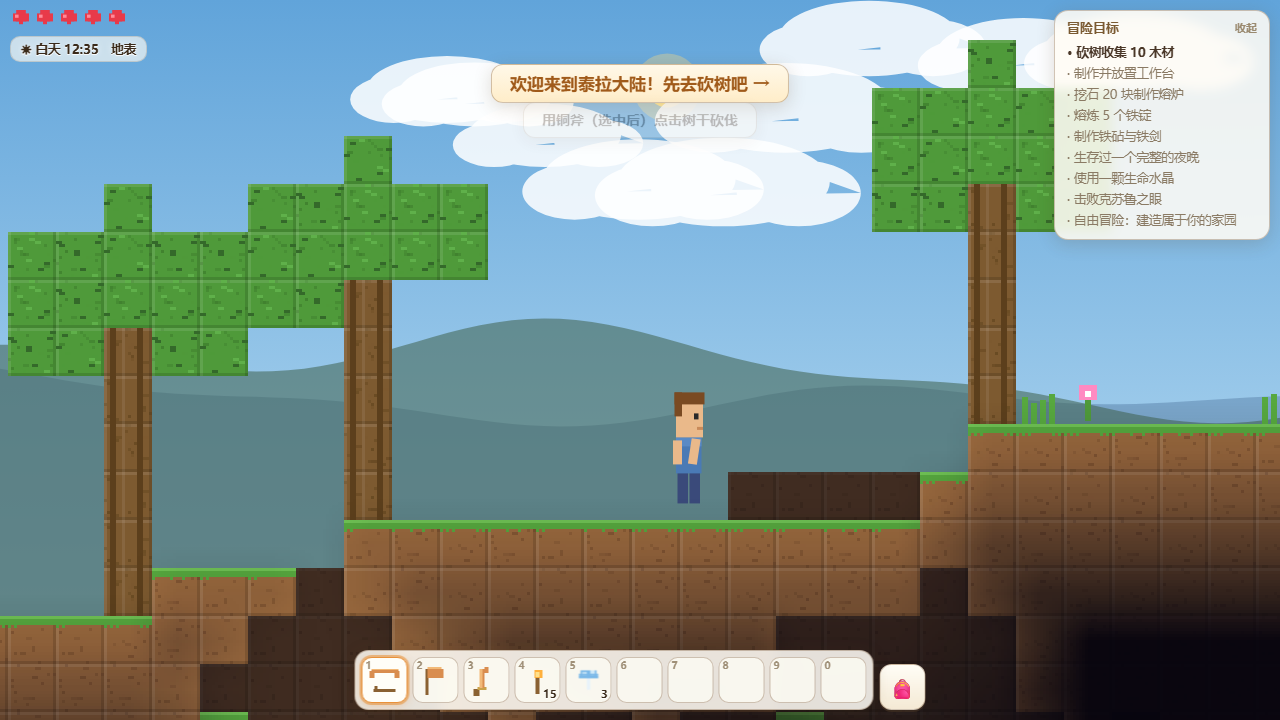
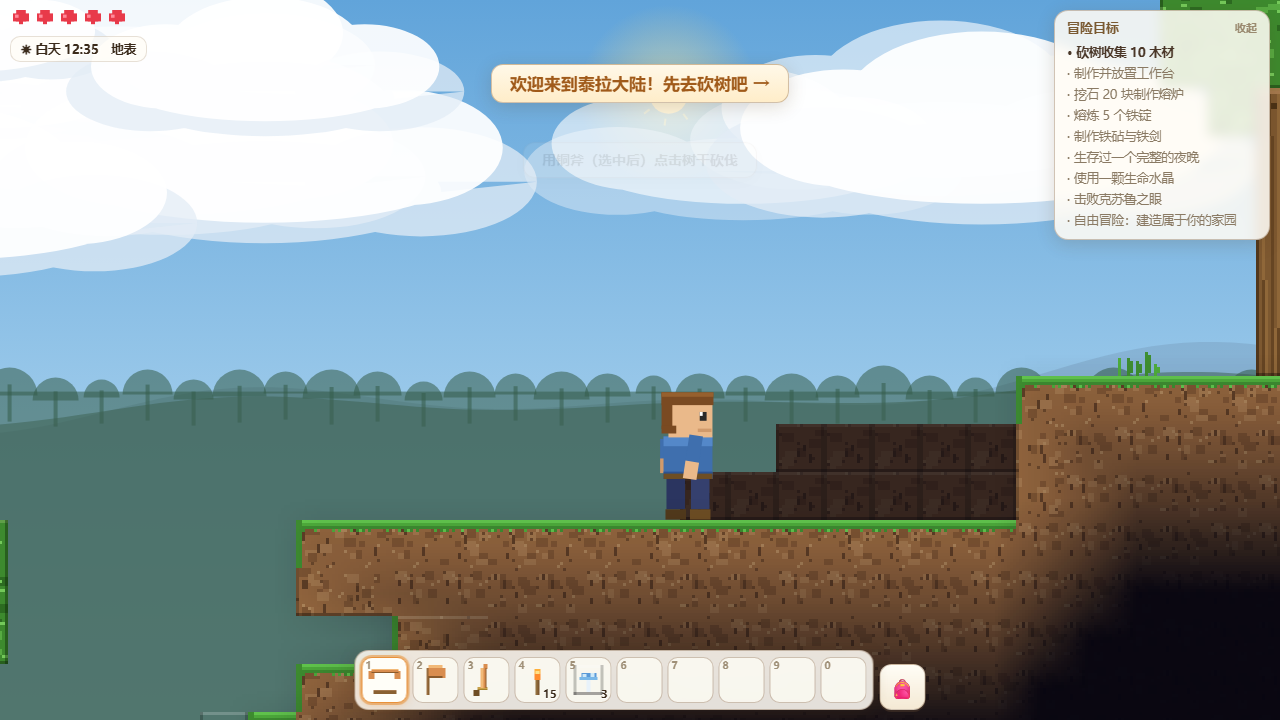
docs: DEVLOG v1.1 视觉重做记录

diff --git a/DEVLOG.md b/DEVLOG.md
@@ -1,5 +1,24 @@
 # 泰拉物语 DEVLOG
 
+## 2026-09-21 · v1.1 视觉重做（用户反馈：和官方《泰拉瑞亚》区别太大）
+
+用户否定了 v1.0 观感——本质是"Minecraft 式网格方块"，而泰拉瑞亚的观感核心是手绘像素质感。按「调研标杆→从零重写管线」执行，不叠补丁。
+
+### 泰拉瑞亚观感核心（重做依据）
+同材质相邻方块无缝融合、只有暴露边画轮廓；草包裹泥土侧边；矿石是嵌在石头里的大颗晶体；树是有机形状（粗树干+大团冠）；天空有日出日落暖色、棉花云、地平线森林剪影。
+
+### 重写内容
+1. **textures.js 全重写**：融合贴图管线——`getTile(id, mask, variant)`，mask 为 4bit 四邻同类标识（`G.tex.FUSE` 融合分组表：泥土/草一组、石头/五种矿一组、沙、雪/冰、灰烬/狱岩、木材、树干、两种树叶），缓存 key=`id<<6|mask<<1|variant`；暴露边统一 1px 半透明轮廓+顶边亮线（`edges()`）；泥土=多色阶土团+砾石+根须、石头=岩块团+裂纹折线、矿石=石底+3 簇晶体（暗边/主色/高光三层）；草块在暴露的顶/侧/底都包草层带锯齿下垂；树干竖树皮+节疤+顶部年轮切口；树叶团簇+高光叶
+2. **render.js drawWorld**：逐 tile 计算 FUSE 同组 mask 再取贴图——同材质区域完全连续，无网格线
+3. **树生成重做**（world.js）：2 格宽树干、高 6-10、大圆冠（r 2.4-3.2）或三角塔松冠、森林密度 8%→17%、`breakSupports` 支持双列树干连锁+冠清除半径加大；出生点选址提前计算，树跳过出生区 ±10（避免平整区切断树冠留悬空树干——v1.0 遗留的截图怪相）
+4. **玩家重绘**：26 逻辑像素小人（u=2.65TILE/26 比例绘制）——发顶/后脑发/发尾三层头发、眼白高光、蓝衣下摆+腰带、走路双腿前后摆+身体起伏、跳跃分腿姿势、后臂藏于身侧随走摆动、前臂绕肩点挥舞并挂武器图标旋转
+5. **怪物重绘**：史莱姆=渐变果冻（顶部白高光→主色→暗底）+体内深色核+高光条；僵尸=绿肤破衣+双臂前伸+死鱼眼；骷髅=头骨眼洞鼻洞牙缝+三根肋骨+骨腿；恶魔眼=血管眼白+朝向瞳孔+高光点+boss 血丝尾带瘤；蝙蝠=双翅曲线拍动+尖耳獠牙；小鬼=尖耳+摆尾+手持火球
+6. **天空**：太阳三层光晕+旋转光芒短线+月面陨石坑；棉花云=多椭圆组合+平底+底层阴影，双层视差速度；远景三层=淡蓝远山+**森林剪影带**（重复圆冠树影，随相机视差）+深绿丘陵
+7. **坑**：seedRng 初版忘挂 .int/.range 导致 drawWorld 每帧抛错（画面只剩天空层）——自造随机源记得带齐全套辅助方法
+
+### 回归
+smoke 11 步全过（woodx61 砍树掉落翻倍证明大树冠生效）；线上 live-check 4 项过。
+
 ## 2026-09-20 · v1.0 首日完整交付
 
 ### 项目定位
